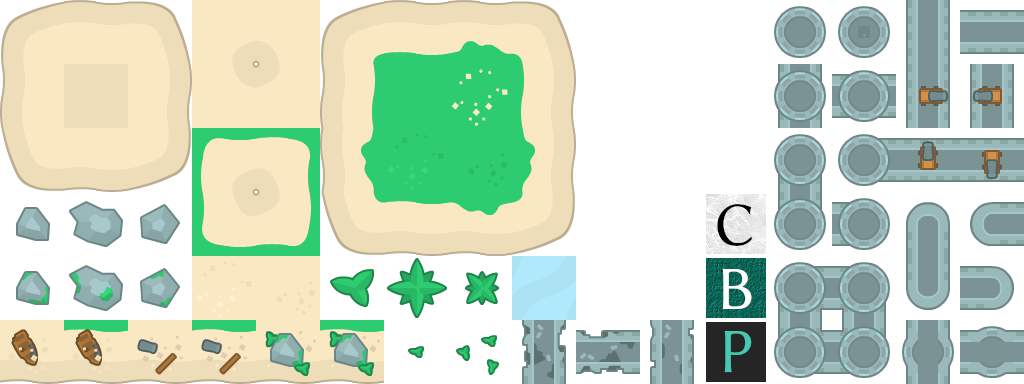
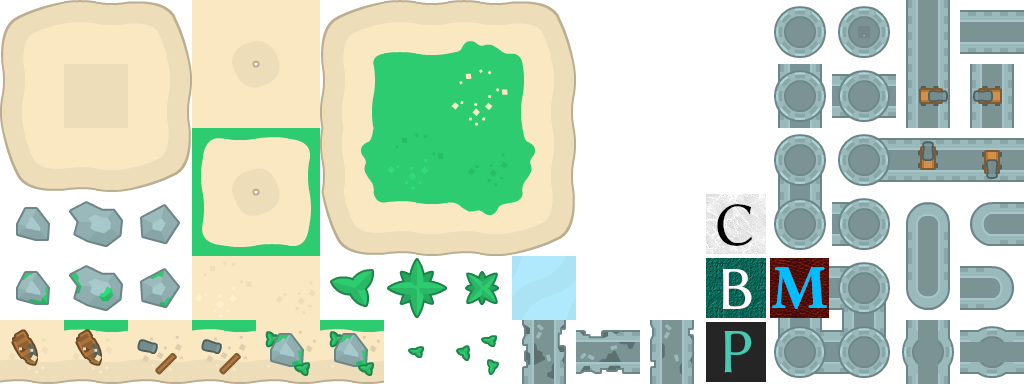
Made minigame building, added it to map

Changed region(s): [[0.75, 0.6562, 0.8125, 0.8438]]

diff --git a/core/src/main/java/uk/ac/york/sepr4/hud/HUD.java b/core/src/main/java/uk/ac/york/sepr4/hud/HUD.java
@@ -16,9 +16,10 @@ public class HUD {
 
     private GameScreen gameScreen;
 
-    private Label goldLabel, goldValueLabel, xpLabel, pausedLabel, xpValueLabel, locationLabel, captureStatus, promptLabel;
+    private Label goldLabel, goldValueLabel, xpLabel, pausedLabel, xpValueLabel, locationLabel, captureStatus,
+                departmentPromptLabel, minigamePromptLabel;
     @Getter
-    private Table table, promptTable, pausedTable;
+    private Table table, departmentPromptTable, minigamePromptTable, pausedTable;
 
     /***
      * Class responsible for storing and updating HUD variables.
@@ -63,11 +64,17 @@ public class HUD {
         pausedTable.add(pausedLabel).padBottom(200).expandX();
 
         // Assessment 3: Add the department prompt
-        promptLabel = new Label("E to enter department", new Label.LabelStyle(new BitmapFont(), Color.BLACK));
-        promptTable = new Table();
-        promptTable.center();
-        promptTable.setFillParent(true);
-        promptTable.add(promptLabel).padBottom(100).expandX();
+        departmentPromptLabel = new Label("E to enter department", new Label.LabelStyle(new BitmapFont(), Color.BLACK));
+        departmentPromptTable = new Table();
+        departmentPromptTable.center();
+        departmentPromptTable.setFillParent(true);
+        departmentPromptTable.add(departmentPromptLabel).padBottom(100).expandX();
+
+        minigamePromptLabel = new Label("E to enter minigame", new Label.LabelStyle(new BitmapFont(), Color.BLACK));
+        minigamePromptTable = new Table();
+        minigamePromptTable.center();
+        minigamePromptTable.setFillParent(true);
+        minigamePromptTable.add(minigamePromptLabel).padBottom(100).expand();
     }
 
     /***
@@ -103,8 +110,9 @@ public class HUD {
         } else {
             captureStatus.setText("");
         }
-        promptTable.setVisible(gameScreen.getNearDepartment());
-        pausedTable.setVisible(GameScreen.isPaused() && !gameScreen.getNearDepartment());
+        departmentPromptTable.setVisible(gameScreen.getNearDepartment());
+        minigamePromptTable.setVisible(gameScreen.isNearMinigame());
+        pausedTable.setVisible(GameScreen.isPaused() && !gameScreen.getNearDepartment() && !gameScreen.isNearMinigame());
     }
 
 }

diff --git a/core/src/main/java/uk/ac/york/sepr4/GameScreen.java b/core/src/main/java/uk/ac/york/sepr4/GameScreen.java
@@ -67,7 +67,7 @@ public class GameScreen implements Screen, InputProcessor {
     private ShopUI shopUI;
     private boolean inDepartment;
     @Getter @Setter
-    private boolean nearDepartment;
+    private boolean nearDepartment, nearMinigame;
 
     private static GameScreen gameScreen;
 
@@ -128,7 +128,8 @@ public class GameScreen implements Screen, InputProcessor {
         this.hud = new HUD(this);
 
         hudStage.addActor(this.hud.getTable());
-        hudStage.addActor(this.hud.getPromptTable());
+        hudStage.addActor(this.hud.getDepartmentPromptTable());
+        hudStage.addActor(this.hud.getMinigamePromptTable());
         hudStage.addActor(this.hud.getPausedTable());
 
         // Set input processor and focus
@@ -194,6 +195,7 @@ public class GameScreen implements Screen, InputProcessor {
                 buildingManager.spawnCollegeEnemies(delta);
                 buildingManager.checkBossSpawn();
                 buildingManager.departmentPrompt();
+                buildingManager.minigamePrompt();
             }
 
             handleHealthBars();
@@ -416,11 +418,14 @@ public class GameScreen implements Screen, InputProcessor {
                 enterDepartment(gameScreen.getEntityManager().getPlayerLocation().get().getName());
                 return true;
             }
+            else if (nearMinigame) {
+                nearMinigame = false;
+                PirateGame pirateGame = GameScreen.getInstance().getGame();
+                pirateGame.switchScreen(ScreenType.MINIGAME);
+            }
         }
         if(keycode == Input.Keys.L){
             //used to test minigame easily!
-            PirateGame pirateGame = GameScreen.getInstance().getGame();
-            pirateGame.switchScreen(ScreenType.MINIGAME);
         }
 
         return false;

diff --git a/core/src/main/java/uk/ac/york/sepr4/object/building/BuildingManager.java b/core/src/main/java/uk/ac/york/sepr4/object/building/BuildingManager.java
@@ -20,6 +20,7 @@ public class BuildingManager {
 
     private Array<College> colleges = new Array<>();
     private Array<Department> departments = new Array<>();
+    private MinigameBuilding minigame;
 
     private GameScreen gameScreen;
 
@@ -41,6 +42,7 @@ public class BuildingManager {
             Json json = new Json();
             loadBuildings(json.fromJson(Array.class, College.class, Gdx.files.internal("colleges.json")));
             loadBuildings(json.fromJson(Array.class, Department.class, Gdx.files.internal("departments.json")));
+            loadBuildings(json.fromJson(Array.class, MinigameBuilding.class, Gdx.files.internal("minigame.json")));
             Gdx.app.log("BuildingManager",
                     "Loaded "+colleges.size+" colleges and "+departments.size+" departments!");
 
@@ -58,6 +60,16 @@ public class BuildingManager {
             else {
                 gameScreen.setNearDepartment(false);
             }
+        }
+    }
+
+    public void minigamePrompt(){
+        Player player = gameScreen.getEntityManager().getOrCreatePlayer();
+        if (minigame.getBuildingZone().contains(player.getRectBounds())) {
+            gameScreen.setNearMinigame(true);
+        }
+        else {
+            gameScreen.setNearMinigame(false);
         }
     }
 
@@ -137,6 +149,8 @@ public class BuildingManager {
                     colleges.add((College) building);
                 } else if (building instanceof Department) {
                     departments.add((Department) building);
+                } else if (building instanceof MinigameBuilding) {
+                    minigame = (MinigameBuilding) building;
                 }
                 Gdx.app.debug("BuildingManager", "Loaded " + building.getName());
             } else {

diff --git a/core/src/main/java/uk/ac/york/sepr4/object/entity/Player.java b/core/src/main/java/uk/ac/york/sepr4/object/entity/Player.java
@@ -134,7 +134,7 @@ public class Player extends LivingEntity implements InputProcessor {
             turningRight = true;
             return true;
         }
-        if(keycode == Input.Keys.M) {
+        if(keycode == Input.Keys.Q) {
             //minimap
             GameScreen.getInstance().getOrthographicCamera().zoom = 3;
             return true;
@@ -167,7 +167,7 @@ public class Player extends LivingEntity implements InputProcessor {
             turningRight = false;
             return true;
         }
-        if(keycode == Input.Keys.M) {
+        if(keycode == Input.Keys.Q) {
             //minimap
             GameScreen.getInstance().getOrthographicCamera().zoom = 1;
             return true;

diff --git a/core/src/main/java/uk/ac/york/sepr4/object/building/MinigameBuilding.java b/core/src/main/java/uk/ac/york/sepr4/object/building/MinigameBuilding.java
@@ -1,0 +1,12 @@
+package uk.ac.york.sepr4.object.building;
+
+
+import lombok.Data;
+
+@Data
+public class MinigameBuilding extends Building{
+    private Float buildingRange = 500f;
+    public MinigameBuilding(){
+        // Empty constructor for JSON DAO
+    }
+}
